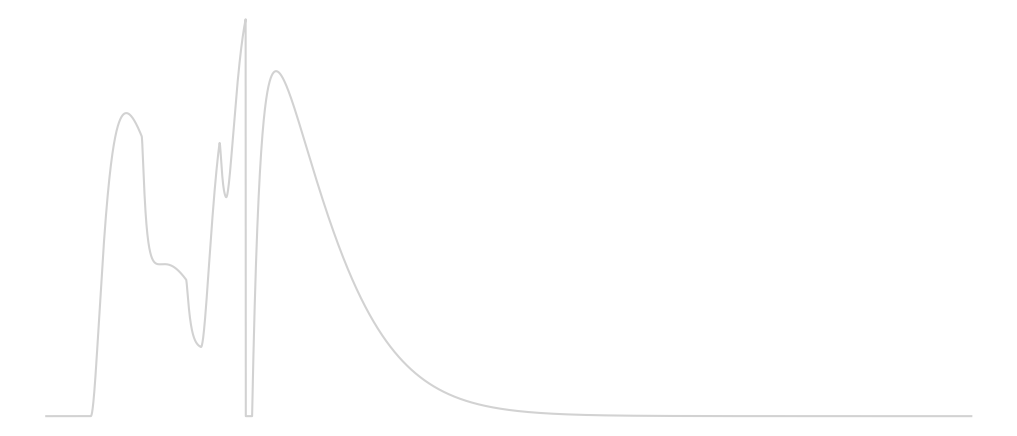
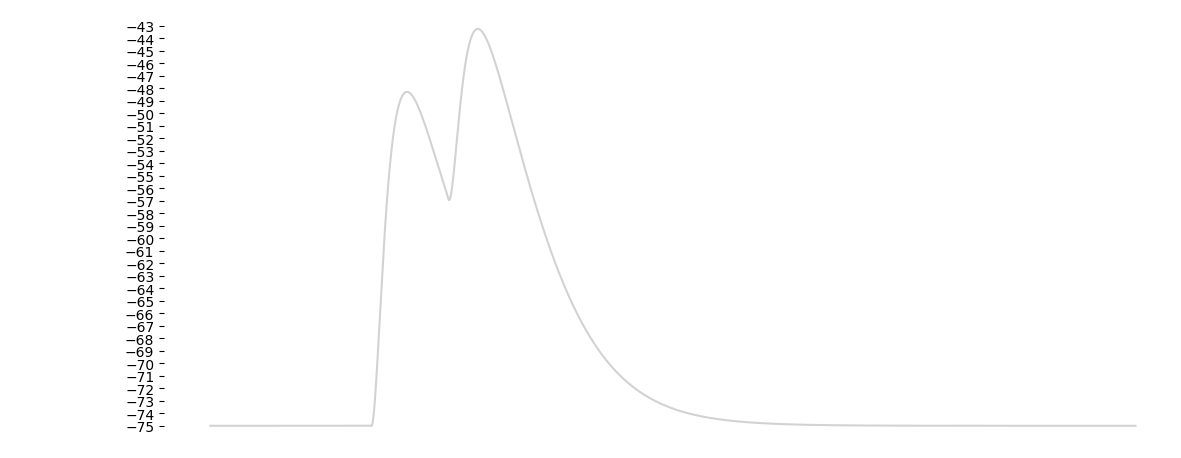
added compartment encoder class, started changing plot drawing

diff --git a/exect.py b/exect.py
@@ -3,6 +3,7 @@ from brian2 import *
 import matplotlib.pyplot as plt
 import utils
 import sys
+import matplotlib.transforms as trn
 
 def calculate(excite: list, inhibit: list, threshold_value, esyn_value, esyninh_value, membrpot_value, keye, keyi):
 
@@ -76,14 +77,33 @@ def calculate(excite: list, inhibit: list, threshold_value, esyn_value, esyninh_
     fig_c, ax_c = plt.subplots(figsize=(13.1, 5.67)) 
     ax_c.plot(x, y, '#404040')
     print('success')
-    return fig, ax, fig_c, ax_c
+
+    #return fig, ax, fig_c, ax_c
+    return fig, ax, fig_c, ax_c, [min(y)/volt, max(y)/volt]
 
 
+#def save_plot(figure, axes, name='plotting'):
+def save_plot(figure, axes, y, name='plotting'):
 
-def save_plot(figure, axes, name='plotting'):
+    axes.set_yticks(np.arange(y[0],y[1]+1, step=1))
+
+    axes.spines['top'].set_visible(False)
+    axes.spines['right'].set_visible(False)
+    axes.spines['bottom'].set_visible(False)
+    axes.spines['left'].set_visible(False)
+    axes.get_xaxis().set_visible(False)
+
+    extent = axes.get_window_extent().transformed(figure.dpi_scale_trans.inverted())
+
+    extent_array = np.array([[0, 0.5], [extent.get_points()[1][0], extent.get_points()[1][1]+0.1]])
+    extent1 = trn.Bbox(extent_array)
+    figure.savefig(f'png/plotting/{name}.png', format='png', bbox_inches=extent1, transparent=True)
+
+    '''
     axes.set_axis_off()
     extent = axes.get_window_extent().transformed(figure.dpi_scale_trans.inverted())
     figure.savefig(f'png/plotting/{name}.png', format='png', bbox_inches=extent, transparent=True) 
+    '''
     plt.close(figure)
 
 
@@ -103,5 +123,10 @@ if __name__ == "__main__":
     plots = calculate(e_list_read, i_list_read, threshold_value, esyn_value, esyninh_value, membrpot_value, keye, keyi)
     figure, axes = plots[0], plots[1]
     figure_c, axes_c = plots[2], plots[3]
-    save_plot(figure, axes, 'plotting')
-    save_plot(figure_c, axes_c, 'plotting_c')
+    #
+    y = plots[4]
+    #
+    #save_plot(figure, axes, y, 'plotting')
+    #save_plot(figure_c, axes_c, y, 'plotting_c')
+    save_plot(figure, axes, y, 'plotting')
+    save_plot(figure_c, axes_c, y, 'plotting_c')

diff --git a/utils.py b/utils.py
@@ -74,10 +74,59 @@ class Encoder():
             arguments.append(sys.argv[i])
         return arguments
 
-    
+    class CompartmentEncoder():
+        def __init__(self) -> None:
+            pass
 
-    
-"""var = Encoder.coder([])
-var1 = Encoder.decoder(var)
-print(var1, type(var1))
-print(Encoder.popen_generator([1,2], []))"""
+        @classmethod
+        def coder(self, give_list: list) -> str:
+            string = ''
+            if not give_list:
+                return '[]'
+            for each in give_list:
+                string += str(each) + ','
+            return string
+
+
+        @classmethod
+        def decoder(self, list_string : str):
+            num_list = []
+            to_convert = ''
+            if list_string == '[]':
+                return num_list
+            for char in list_string:  
+                if char == ',':
+                    if "." in to_convert:
+                        num_list.append(float(to_convert))
+                    else:
+                        num_list.append(int(to_convert))
+                    to_convert = ''
+                else: 
+                    to_convert += char                        
+            return num_list
+        
+        
+        def text_value_decoder(value: str) -> int:
+            try: 
+                int_value = round(float(value))
+            except ValueError:
+                print('Incorrect type. Enter an integer. Reverting to default value.')
+                int_value = -40
+            return int_value
+        
+        @classmethod
+        def popen_generator(self, syn_list:list, Esyn:str):
+            cmd_list = ['python', 'exect.py']
+            times, dists, plasts = syn_list
+            cmd_list.append(Encoder.coder(times))
+            cmd_list.append(Encoder.coder(dists))
+            cmd_list.append(Encoder.coder(plasts))
+            cmd_list.append(Esyn)
+            return cmd_list
+         
+        @classmethod
+        def arg_acceptor(self):
+            arguments = []
+            for i in range(1, len(sys.argv)):
+                arguments.append(sys.argv[i])
+            return arguments
